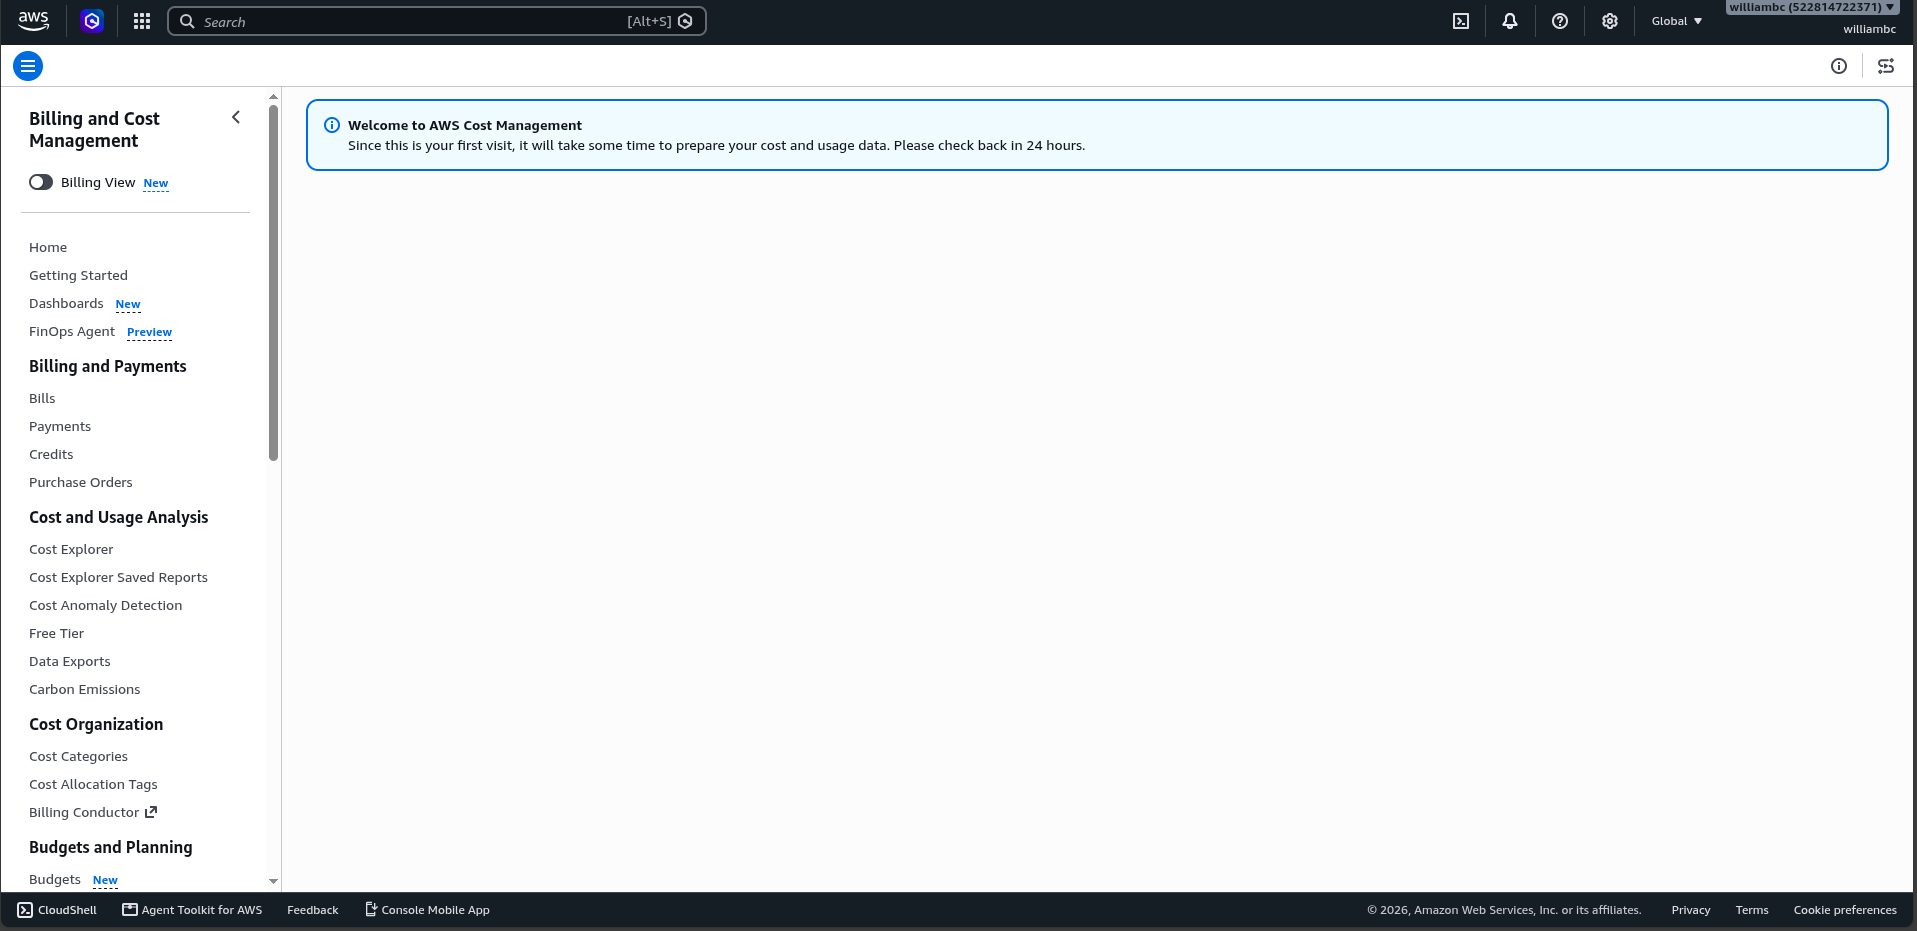
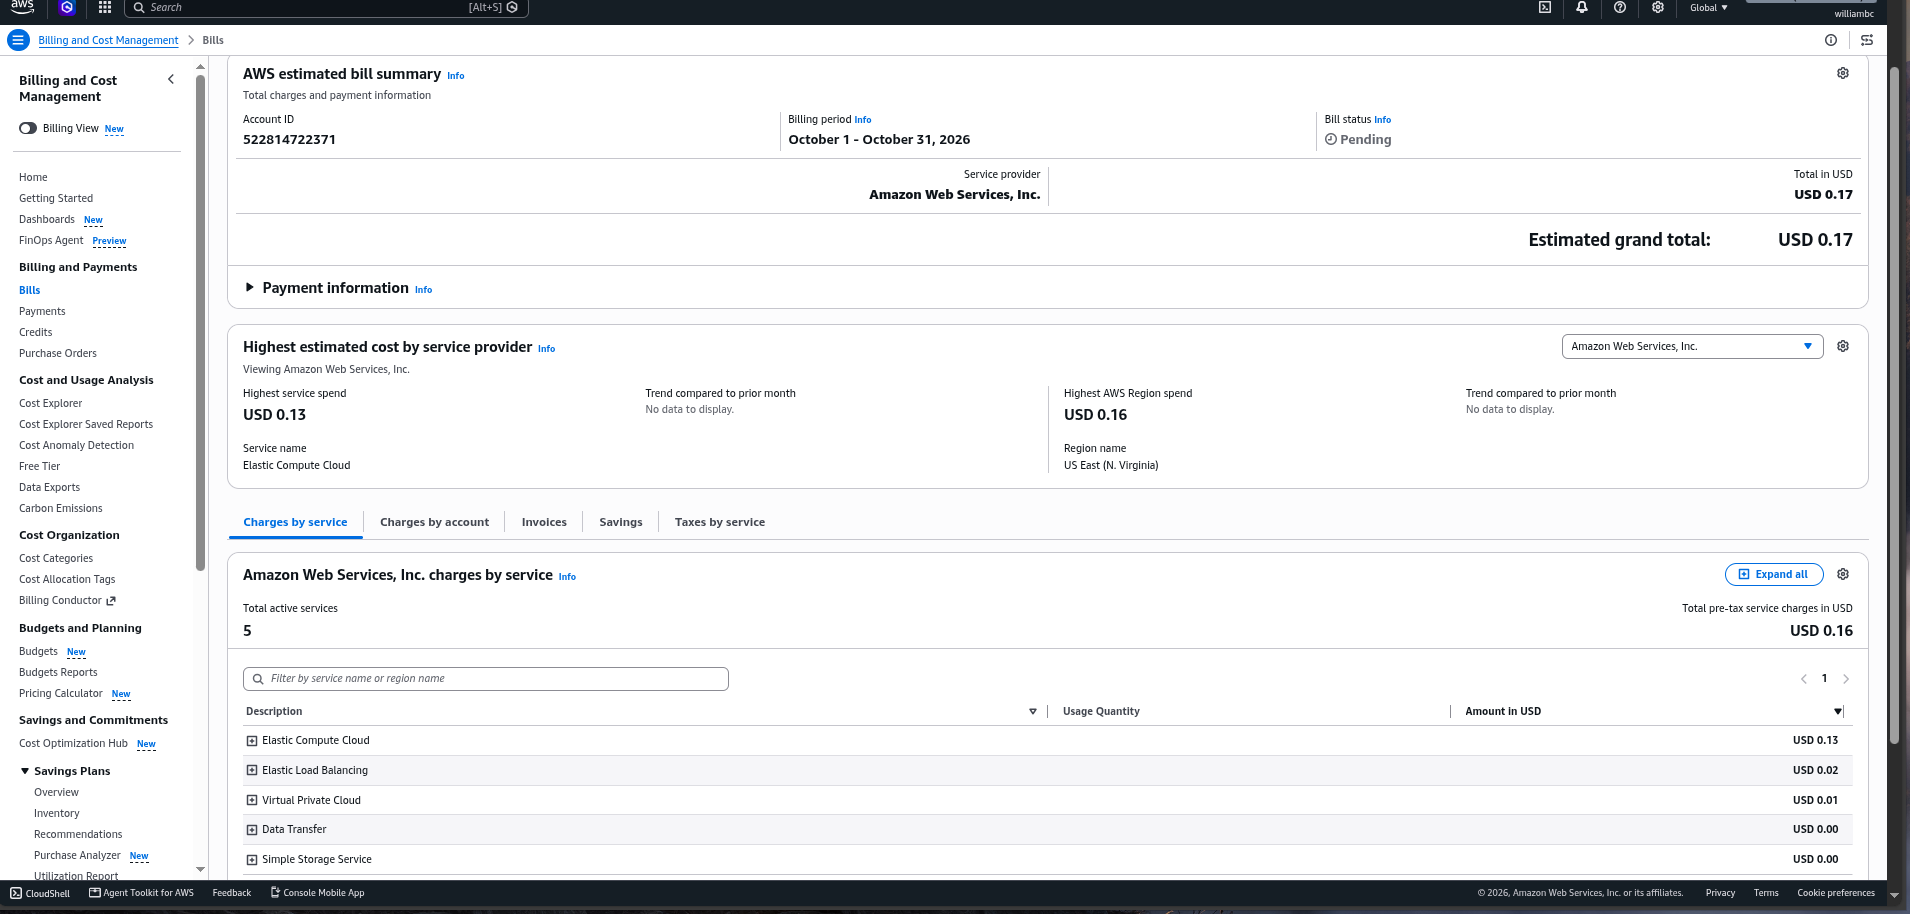
Feat: Complete assignment by BuiLeThaiSon 2

diff --git a/submission/report.md b/submission/report.md
@@ -10,6 +10,6 @@ Latency dự đoán 1 dòng là 0.807 ms, đo sau warm-up và lấy trung bình 
 
 Khi kiểm tra tài nguyên sau benchmark, CPU gần như idle (100% idle, load average 0.01/0.07/0.04). RAM sử dụng khoảng 231 MiB / 3.7 GiB, còn 3.3 GiB available, không sử dụng swap.
 
-Billing tại thời điểm kiểm tra chưa cập nhật. Ảnh trạng thái hiện tại được lưu và Billing sẽ được kiểm tra lại sau do dữ liệu AWS có độ trễ.
+Billing đã có bằng chứng trong screenshots/billing.png
 
 Tôi đã lưu kết quả benchmark và bằng chứng cần thiết, sau đó chạy terraform destroy lúc 10:31 ngày 04/10/2026 để dọn dẹp tài nguyên AWS. 
